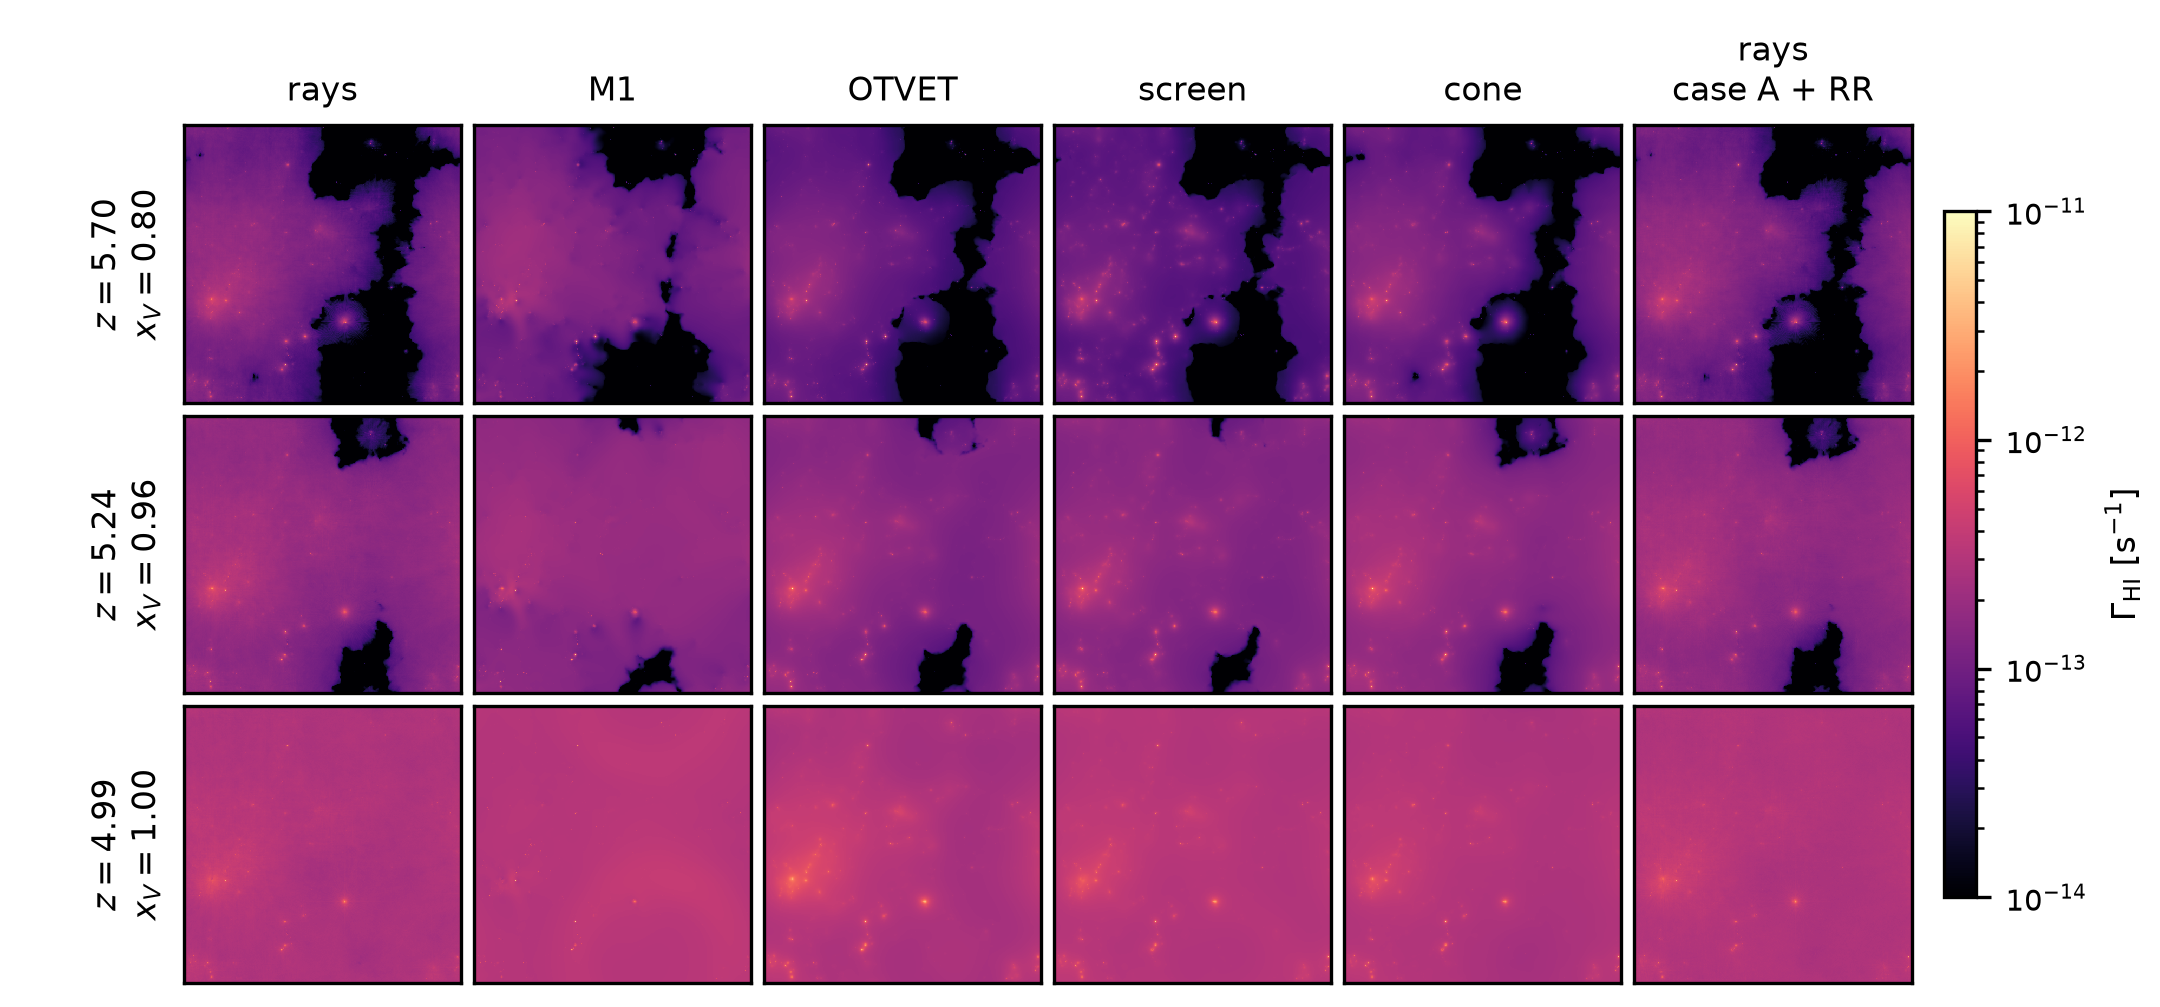
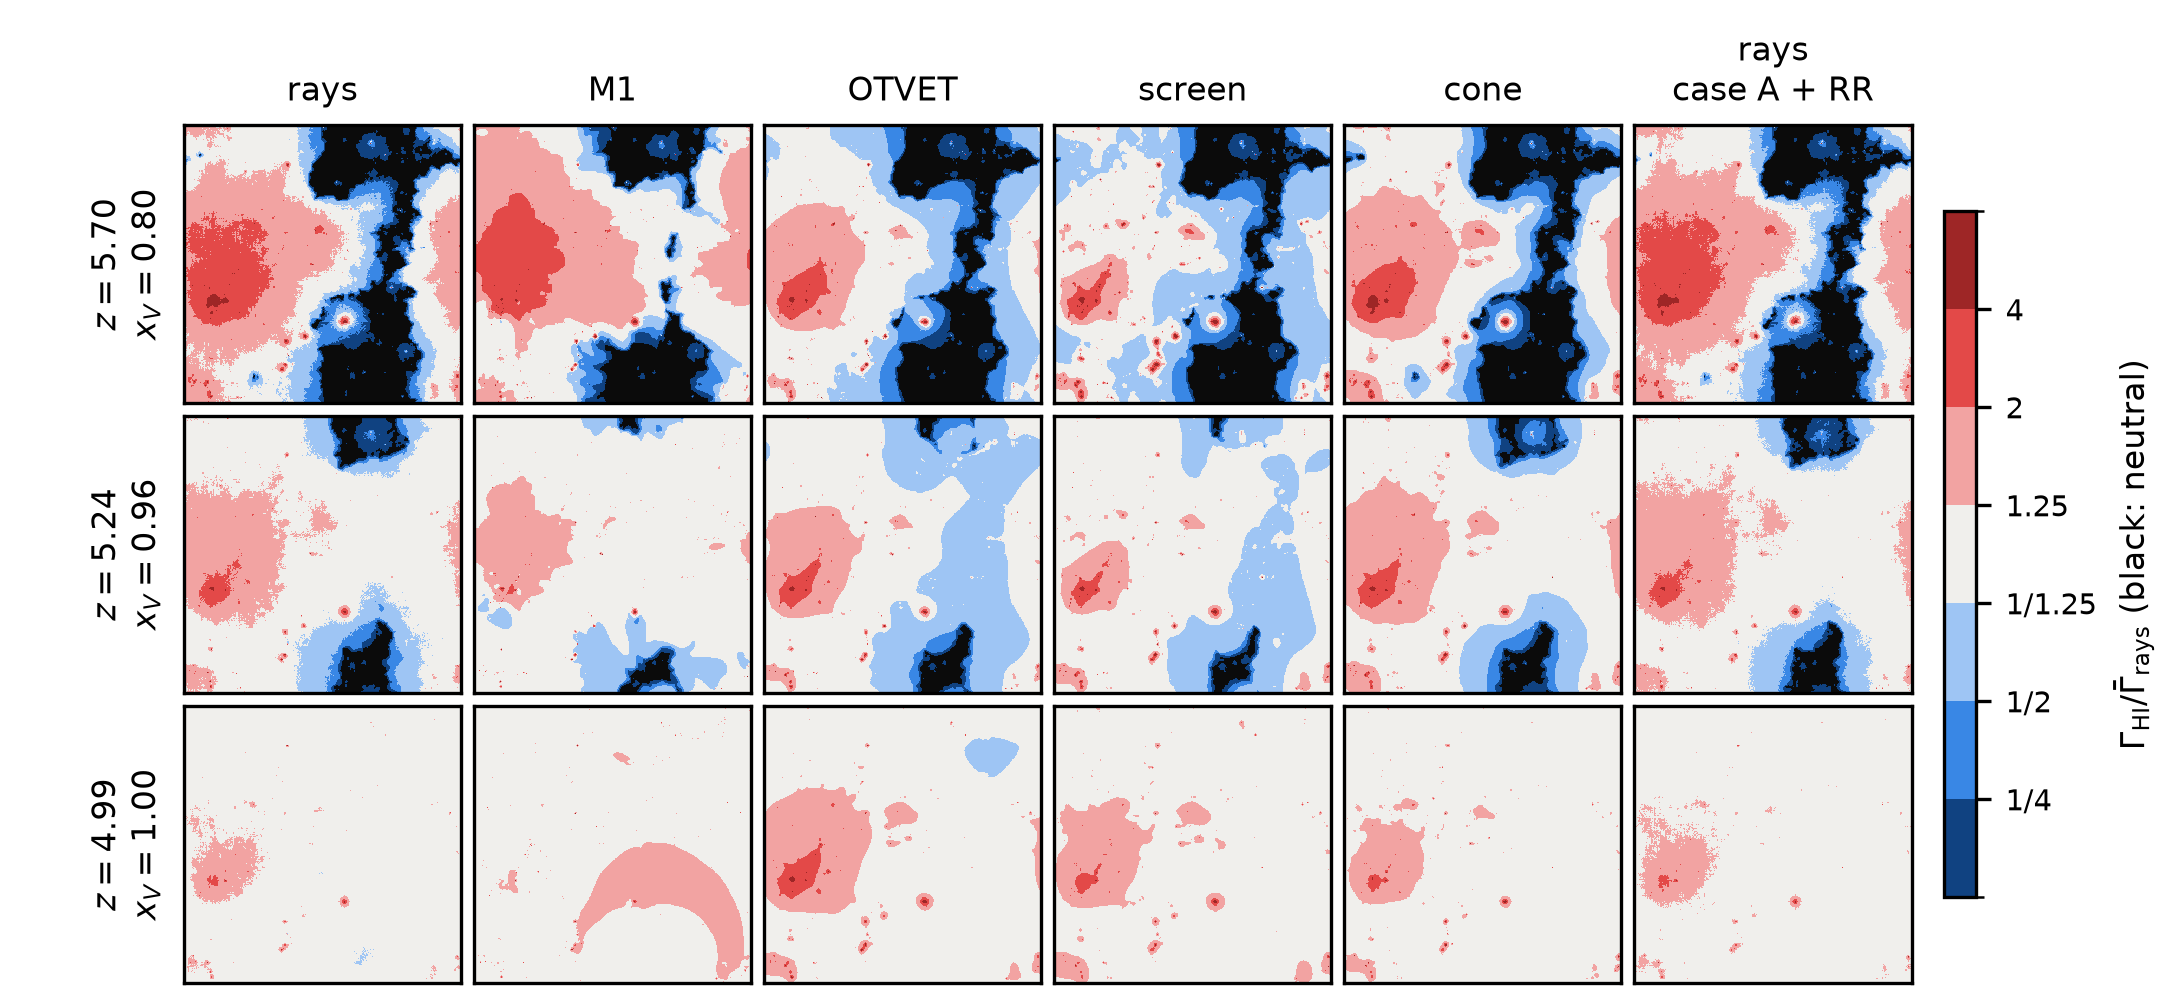
Fig. 3 remade with fig_maps.py --relative: Gamma over the rays' median Gamma of the ionised cells (8.56e-14, 1.64e-13, 2.87e-13 s^-1 at z = 5.70, 5.24, 4.99), bands at x1.25, 2, 4, neutral black; same runs and snapshots as before. Alternative with each run's own median in fig3_gamma_maps_own.png (no
Claude-Session: https://claude.ai/code/session_01VFiZmUXMzoe9zCwF2CdZ4j

diff --git a/main.tex b/main.tex
@@ -328,9 +328,13 @@ falls below 0.5 by $k\approx0.5$--$1\hmpc$.
 \caption{$\Gamma_{\rm HI}$ (\texttt{gammaHI\_avg}) in 8-cell slabs through the box
 middle at $z=5.70$, 5.24 and 4.99 ($\xv=0.80$, 0.96, 1.00 in the rays;
 the top row of OTVET, the screen and the cone is their $z=5.75$
-snapshot), all six runs. \draft{Possibly a zoom on a source cluster and
-$\Gamma/\langle\Gamma\rangle$ on a narrower range to show the proximity
-zones.}}
+snapshot), all six runs, divided by the rays' median $\Gamma_{\rm HI}$
+of the ionized cells at that redshift, $\bar\Gamma_{\rm rays}=8.6\times10^{-14}$,
+$1.6\times10^{-13}$ and $2.9\times10^{-13}\,{\rm s^{-1}}$. Grey: within
+25\% of $\bar\Gamma_{\rm rays}$; red: above it, in bands at $\times1.25$,
+2 and 4; blue: below it, at $1/1.25$, $1/2$ and $1/4$; black: neutral
+($x_{\rm HII}<0.5$ in the slab). \draft{Possibly a zoom on a source
+cluster to show the proximity zones.}}
 \label{fig:mapsg}
 \end{figure}
 

diff --git a/figures/README.md b/figures/README.md
@@ -37,7 +37,8 @@ older `*_draft` files and rows below are from the earlier suite (f6 = 0.11).
 | `fig8_21cmfast_pk_draft.png` | 21cmFAST comparison | `docs/figures/taueff_21cmfast_fig8_pk.png` (branch `21cmfast-mass-sources`, 61b8312) | `excursion_set.py figure` | draft: colours to unify with Figs. 2–3 |
 | `fig1_maps_xHII.png` | Fig. 1 | cubes of `$R/reion512late{,_m1,_otvet_ga01,_otvet_cone}` and the 21cmFAST run-mass output `$R/rt_closure_paper/es_late/es_rmax15_mass` (E-INTEGRAL, R_max = 15 Mpc, α★ = a(z) − 1 = 0.447/0.433/0.433, α_esc = 0, normalised to the rays' x_V) | `scripts/fig_maps.py --field xHII --steps 69,84,93` (this repository; panels in `fig1_maps_xHII_panels.txt`) | final for the late-end suite |
 | `fig2_pk_xHII.{pdf,png}` | Fig. 2 | `data/pk_xHII_21cmfast.txt` (`excursion_set.py figure $R/rt_closure_paper/es_late RUN:label … --es rmax15_mass --steps 69,84,93`) | `scripts/fig_pk.py` (this repository); the split is left out (= OTVET to < 1 % in power, 0.001 in r(k), 2026-11-18) | final for the late-end suite |
-| `fig3_gamma_maps.png` | Fig. 3 | `gammaHI_avg` cubes of the six late-end runs | `scripts/fig_maps.py --field gamma --steps 84,93,99` (this repository; panels in `fig3_gamma_maps_panels.txt`) | to remake with `--relative` (2026-11-18: Γ over the rays' median Γ of the ionised cells, bands at ×1.25, 2, 4, neutral black; the reference medians are logged in the panels file) |
+| `fig3_gamma_maps.png` | Fig. 3 | `gammaHI_avg` and `fHI` cubes of the six late-end runs | `R=/gscratch/astro/mcquinn/radhydro/runs; scripts/fig_maps.py --field gamma --relative --steps 84,93,99 --out figures/fig3_gamma_maps.png "$R/reion512late:rays" "$R/reion512late_m1:M1" "$R/reion512late_otvet_ga01:OTVET" "$R/reion512late_otvet_screen:screen" "$R/reion512late_otvet_cone:cone" "$R/reion512late_caseA:rays\ncase A + RR"` (this repository, fba6558; panels and the rays' reference medians in `fig3_gamma_maps_panels.txt`; 2026-11-18) | final for the late-end suite: Γ over the rays' median Γ of the ionised cells at each redshift, bands at ×1.25, 2, 4 (blue below, grey within 25 %, red above), neutral black |
+| `fig3_gamma_maps_own.png` | Fig. 3 alternative | as `fig3_gamma_maps.png` | the same command with `--rel-to own --out figures/fig3_gamma_maps_own.png` (each run's own median, logged in `fig3_gamma_maps_own_panels.txt`; 2026-11-18) | alternative, not in the paper |
 | `fig4_pk_gamma.{pdf,png}` | Fig. 4 | `data/pk_suite.txt` (`rt_suite_figures.py RUN:label … --xv 0.5,0.8,0.97 --xv-gamma 0.5,0.8,0.97,1.0`) | `scripts/fig_pk.py` (this repository) | epochs by x_V (0.54, 0.80, 0.96, 1.00); alternative at z ≈ 6.0, 5.5, 5.0. Bottom row (2026-11-12): the Γ PDF, `data/pdf_gamma.txt` (`$RUNS/reion512late_figures/paper/gamma_pdf.py` on the same snapshots, `suite/panels.txt`) |
 | `fig2_pk_xHII_oldsuite.{pdf,png}` | App. A (Fig. 2 of the earlier suite) | `data/pk_xHII_21cmfast_oldsuite.txt` (= `data/pk_xHII_21cmfast.txt` at 16f3ec9) | `fig2_pk_xHII.pdf` as of 16f3ec9 (`scripts/fig_pk.py` of then) | for comparison with the late-end suite |
 | `fig4_pk_gamma_oldsuite.{pdf,png}` | App. A (Fig. 4 of the earlier suite) | `data/pk_suite_oldsuite.txt` (= `data/pk_suite.txt` at 16f3ec9) | `fig4_pk_gamma.pdf` as of 16f3ec9 | for comparison with the late-end suite |
